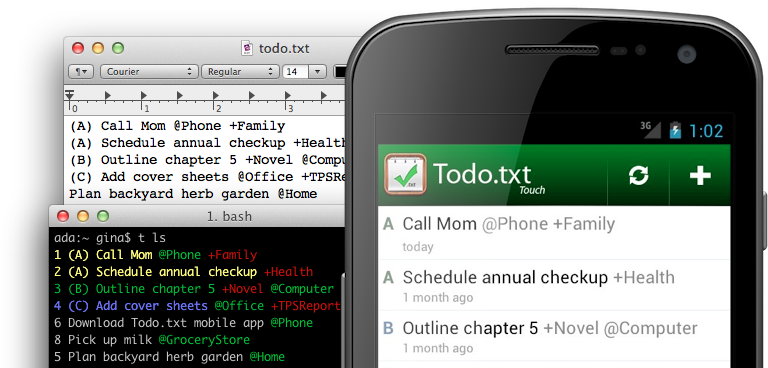
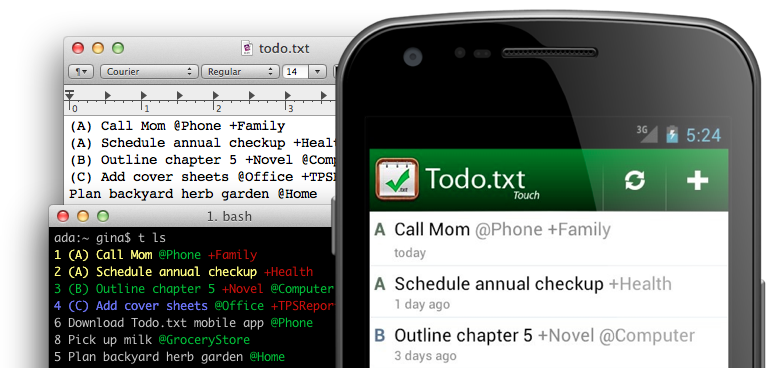
Include iPad in mobile apps header; Reverse angle of shine on Android screenshot; Make sample tasks less than 1 month old; Move developer bit about open source copy to end of last column for balance

diff --git a/index.html b/index.html
@@ -68,8 +68,6 @@
 					<h4>Android users:</h4>
 					<p><a href="https://play.google.com/store/apps/details?id=com.todotxt.todotxttouch&hl=en" title="Android app on Google Play"><img src="images/app-store-google-available.png" alt="Android app on Google Play" style="margin-bottom:5px" width="170"></a></p>
 					<p>Also available in <a href="http://www.amazon.com/o/ASIN/B004MNQTVU/ref=nosim/lifehackerboo-20">the Amazon Appstore</a>.
-					<h4>Developers:</h4>
-					<p>Todo.txt Touch is proudly open source. Browse the source code for <a href="https://github.com/ginatrapani/todo.txt-touch-ios">iOS</a> and <a href="https://github.com/ginatrapani/todo.txt-touch">Android</a>.</p>
 				</div>
 				<div class="span4">	
 					<h2>At the Command Line</h2>
@@ -99,6 +97,9 @@
 						<script src="//platform.twitter.com/widgets.js" charset="utf-8"></script>
 					</p>
 					</span>
+					<h3>Developers</h3>
+					<p>Todo.txt CLI and Todo.txt Touch are proudly open source. Browse the source code for the <a href="https://github.com/ginatrapani/todo.txt-cli">CLI</a>, <a href="https://github.com/ginatrapani/todo.txt-touch-ios">iOS</a>, and <a href="https://github.com/ginatrapani/todo.txt-touch">Android</a>.</p>
+					
 				</div>
 			</div>
 		</div>
